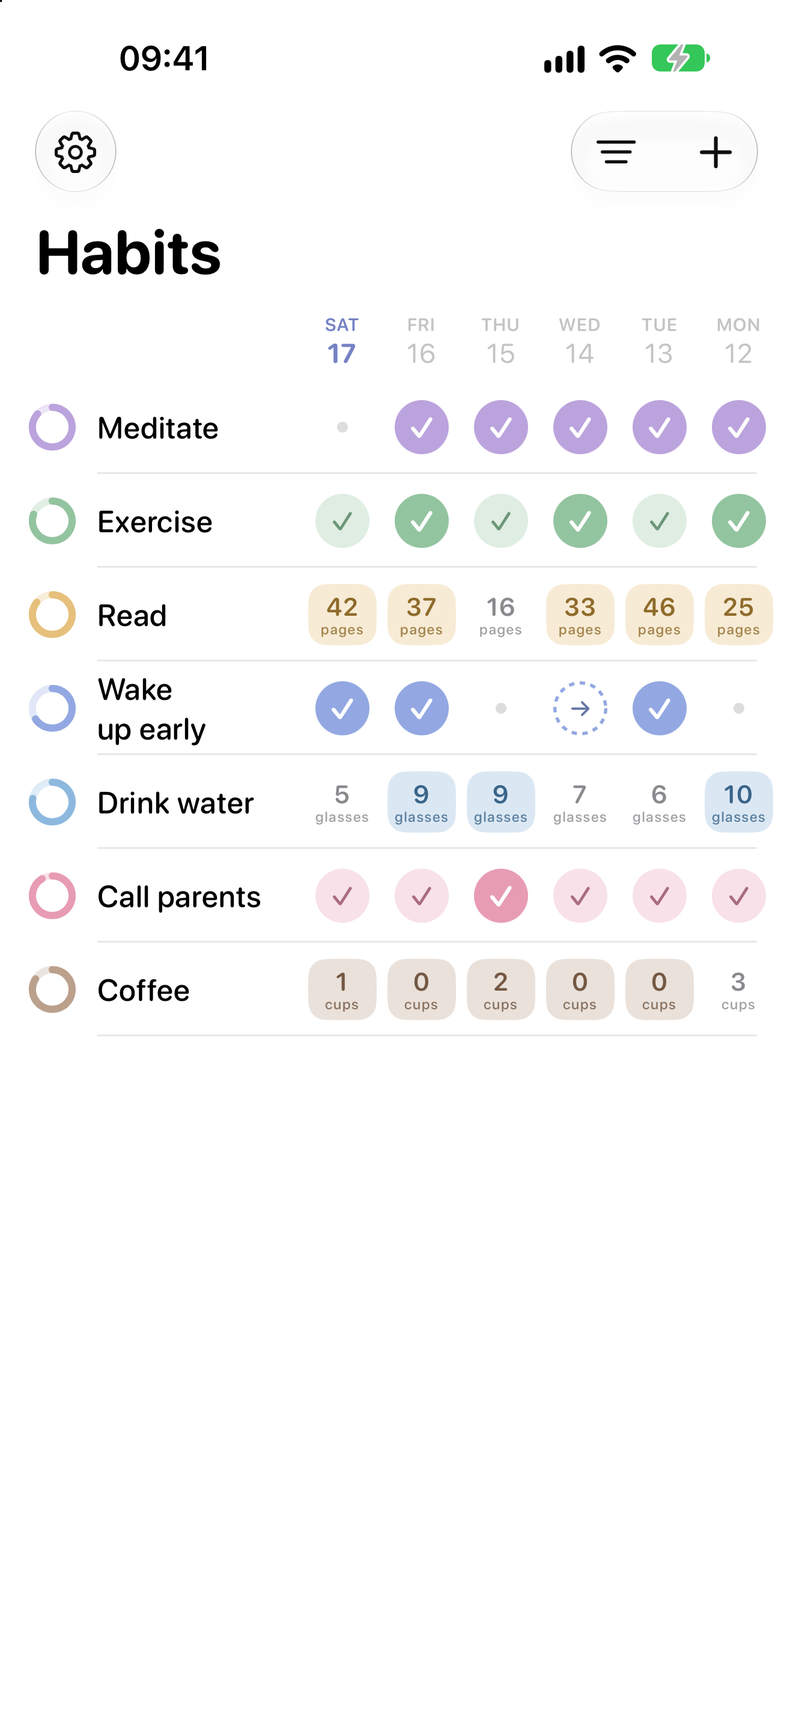
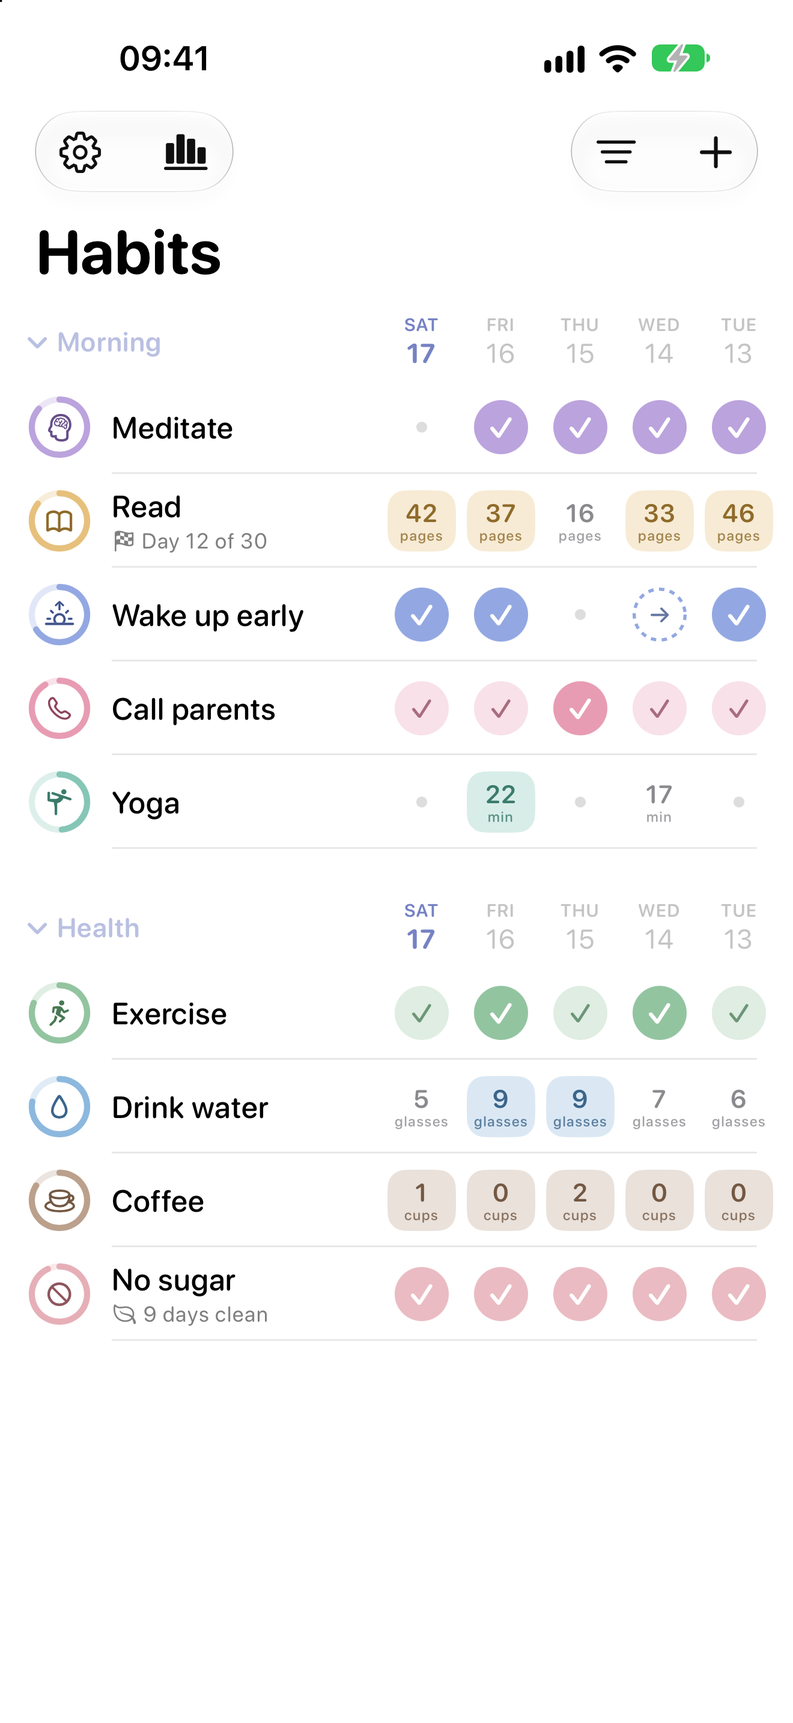
Docs, App Store texts and screenshots for version 2; public privacy page link in the app

diff --git a/Coil/Views/HabitList/HabitListView.swift b/Coil/Views/HabitList/HabitListView.swift
@@ -23,7 +23,7 @@ struct HabitListView: View {
     @State private var today = Day.today()
     @State private var listWidth: CGFloat = 400
     /// Room kept for the habit name; grows with Dynamic Type so names stay readable.
-    @ScaledMetric(relativeTo: .body) private var nameWidth: CGFloat = 120
+    @ScaledMetric(relativeTo: .body) private var nameWidth: CGFloat = 130
     /// How many days the checkmark columns are scrolled back from today.
     @State private var dayOffset = 0
     @State private var editMode: EditMode = .inactive

diff --git a/Coil/Views/Settings/SettingsView.swift b/Coil/Views/Settings/SettingsView.swift
@@ -194,7 +194,7 @@ struct SettingsView: View {
     private var aboutSection: some View {
         Section {
             LabeledContent("Version", value: appVersion)
-            Link(destination: URL(string: "https://github.com/aimnoux/coil/blob/main/docs/privacy-policy.md")!) {
+            Link(destination: URL(string: "https://aimnoux.github.io/coil-app/privacy.html")!) {
                 Label("Privacy Policy", systemImage: "hand.raised")
             }
         } header: {

diff --git a/README.md b/README.md
@@ -7,50 +7,54 @@
 ## Что умеет
 
 **Главный экран**
-- список привычек с отметками за последние дни (количество колонок подстраивается под ширину экрана);
-- свайп по заголовку с датами листает в прошлое, кнопка «Today» возвращает к сегодняшнему дню;
-- кольцо силы привычки у каждой строки;
-- отметка касанием (или долгим нажатием, если включено в настройках): выполнено → пропуск → не выполнено → нет отметки;
-- для измеримых привычек ввод значения с кнопками ±;
-- сортировка (вручную, по названию, цвету, силе, статусу), фильтры «Показать архив» и «Скрыть выполненные»;
-- изменение порядка перетаскиванием, свайпы и контекстное меню: изменить, в архив, удалить;
-- режим выбора: несколько привычек сразу в архив, сменить им цвет или удалить.
+- привычки с отметками за последние дни; свайп по датам листает в прошлое;
+- **группы** («Утро», «Здоровье»…) — сворачиваемые разделы списка;
+- у каждой привычки **иконка** в кольце силы и строка статуса: челлендж, пауза, дни без срыва, идущий таймер;
+- отметка касанием (или долгим нажатием): выполнено → пропуск → не выполнено; встряхните, чтобы отменить;
+- сортировка, фильтры, режим выбора: в архив, сменить цвет, удалить несколько привычек сразу;
+- **отмена** удаления, архивации и других действий плашкой «Отменить».
 
-**Типы привычек и расписания**
-- «Да/нет» и измеримые (единица измерения, цель «не меньше» или «не больше», период: день, неделя или месяц);
-- частота: каждый день, раз в N дней, N раз в неделю, N раз в месяц, своя (N раз за M дней);
-- автоматические отметки: если цель на период уже выполнена, остальные дни периода засчитываются (полупрозрачная галочка, как в Loop).
+**Создание привычки**
+- **146 шаблонов** в 15 темах (здоровье, спорт, питание, сон, осознанность, обучение, продуктивность, финансы,
+  отношения, дом, творчество, забота о себе, «бросить привычку», челленджи) с поиском, на двух языках;
+- типы: «да/нет», измеримая (единицы, цель «не меньше/не больше», день/неделя/месяц), **«бросить»**;
+- частота: каждый день, раз в N дней, N раз в неделю или месяц, своя;
+- **учёт времени**: секундомер или таймер с историей сессий;
+- **челлендж** на 7–365 дней; **несколько напоминаний в день**; связь с **Apple Health**.
 
-**Статистика привычки**
-- обзор: сила привычки, изменение за месяц и год, сколько раз выполнено, текущая серия;
-- прогресс к цели за день, неделю, месяц, квартал и год (для измеримых);
-- график силы привычки и гистограмма истории с группировкой по дням, неделям, месяцам, кварталам и годам;
-- календарь-сетка за всю историю, где каждый день можно изменить нажатием;
-- лучшие серии;
-- частота выполнения по дням недели за последние 12 месяцев;
-- заметки к привычке и **заметки к отдельным дням** (удерживайте день в календаре или пишите при вводе значения).
+**Экран привычки**
+- обзор силы, цель, графики силы и истории, календарь (касание — изменить, удержание — заметка);
+- серии, частота по дням недели, заметки по дням;
+- карточки: **без срыва** (для «бросить»), **челлендж**, **таймер** с историей, **достижения**, **паузы**.
 
-**Сила привычки** — экспоненциальное скользящее среднее, как в Loop: повторения её поднимают, пропуски опускают,
-но несколько пропущенных дней после долгой серии не обнуляют прогресс. Скорость затухания зависит от частоты,
-поэтому еженедельная привычка не слабеет в дни, когда её не нужно делать. Пропуски (skip) силу не меняют.
+**Таймер**: секундомер или обратный отсчёт; каждая сессия сохраняется, её можно поправить (если забыли
+остановить), добавить вручную или удалить; значение дня — сумма сессий; уведомление по окончании, даже если
+приложение закрыто.
 
-**Напоминания** для каждой привычки: время и дни недели. Прямо из уведомления можно отметить привычку
-или попросить напомнить позже (интервал задаётся в настройках).
+**Пауза и режим отпуска**: дни на паузе не снижают силу и не рвут серию, напоминания не приходят. Пауза для одной
+привычки или для всех сразу.
 
-**Данные**
-- экспорт в CSV (список привычек и таблица отметок; для одной привычки — со своего экрана);
-- полная резервная копия в JSON и восстановление из неё;
-- **импорт из Loop Habit Tracker**: в Loop на Android откройте «Настройки» → «Экспорт полной копии»
-  и импортируйте полученный `.db` файл в Coil («Настройки» → «Импорт копии»).
+**Умные напоминания**: несколько в день, не приходят, если привычка уже выполнена или на паузе. Из уведомления
+можно отметить привычку или отложить напоминание.
 
-**Siri и Shortcuts**: «Отметить привычку» и «Статус привычки» доступны в приложении «Команды» и через Siri.
+**Достижения**: серии (3–365 дней), количество выполнений, сила привычки, идеальный месяц, возвращение после
+перерыва, челленджи, общие вехи. Точная дата получения и поздравление в момент получения.
 
-**Платные функции** (нужен Apple Developer Program, $99/год), уже реализованы и включаются флагом:
+**Статистика**: итоги недели и месяца (процент выполнения, сравнение с прошлым периодом, лучшая привычка, лучший
+день недели, учтённое время), общая тепловая карта всех привычек за год, награды.
+
+**Данные**: CSV, полная резервная копия (с группами, паузами, сессиями), **автобэкапы** по расписанию
+(день/неделя/месяц, хранить последние N) в «Файлы» и iCloud Drive, **импорт из Loop Habit Tracker**.
+
+**Siri, «Команды», виджеты, Пункт управления** (виджеты и кнопка — с платным аккаунтом, см. ниже).
+
+**Оформление**: пастельная палитра, SF Pro Rounded, светлая и тёмная темы, русский и английский, крупный шрифт,
+VoiceOver.
+
+**Платные возможности** (нужен Apple Developer Program), уже реализованы и включаются флагами:
 - синхронизация через iCloud — [docs/ICLOUD.md](docs/ICLOUD.md);
-- виджеты для экрана «Домой» и экрана блокировки — [docs/WIDGETS.md](docs/WIDGETS.md).
-
-**Прочее**: светлая и тёмная темы, выбор первого дня недели, сегодняшний день слева или справа,
-русская и английская локализация, VoiceOver.
+- 7 виджетов и кнопка Пункта управления — [docs/WIDGETS.md](docs/WIDGETS.md);
+- Apple Health (может заработать и бесплатно — попробуйте) — [docs/HEALTH.md](docs/HEALTH.md).
 
 ## Разработка
 
@@ -67,15 +71,16 @@ open Coil.xcodeproj
 Варианты сборки:
 
 ```bash
-xcodegen                                      # бесплатный Apple ID: без iCloud и виджетов
-COIL_WIDGETS=true xcodegen                    # + виджеты (нужен платный аккаунт)
-COIL_ICLOUD=true COIL_WIDGETS=true xcodegen   # всё, для App Store
+xcodegen                                                    # бесплатный Apple ID
+COIL_HEALTH=true xcodegen                                   # + Apple Health
+COIL_ICLOUD=true COIL_WIDGETS=true COIL_HEALTH=true xcodegen # всё, для App Store
 ```
 
-Тесты:
+Тесты (юнит-тесты и UI-тесты; на GitHub они запускаются автоматически, см. `.github/workflows/ci.yml`):
 
 ```bash
-xcodebuild -scheme Coil -destination 'platform=iOS Simulator,name=iPhone 18 Pro' -derivedDataPath build test
+xcodebuild -scheme Coil -destination 'platform=iOS Simulator,name=iPhone 18 Pro' -derivedDataPath build test -only-testing:CoilTests
+xcodebuild -scheme Coil -destination 'platform=iOS Simulator,name=iPhone 18 Pro' -derivedDataPath build test -only-testing:CoilUITests
 ```
 
 Аргументы запуска для отладки:
@@ -97,11 +102,13 @@ Coil/
   Domain/       чистая логика: дни, частота, сила привычки, серии, история (покрыта тестами)
   Model/        SwiftData-модели (совместимы с CloudKit), хранилище
   Intents/      App Intents: общие для приложения и виджетов
-  Services/     напоминания, CSV, резервные копии, импорт из Loop
-  Support/      настройки, форматирование, демо-данные
+  Services/     напоминания, таймер, Health, CSV, бэкапы, автобэкапы, импорт из Loop
+  Support/      настройки, шаблоны, каталог иконок, отмена действий, демо-данные
   Views/        экраны SwiftUI
-Widgets/        расширение с виджетами (включается флагом)
-CoilTests/      тесты (Swift Testing)
+Widgets/        расширение с виджетами и кнопкой Пункта управления (включается флагом)
+CoilTests/      юнит-тесты (Swift Testing), включая тесты производительности
+CoilUITests/    UI-тесты основных сценариев
+site/           сайт: политика конфиденциальности, поддержка (публикуется scripts/publish-site.sh)
 docs/           инструкции и материалы для App Store
 scripts/        иконка и локализация
 ```

diff --git a/CLAUDE.md b/CLAUDE.md
@@ -17,8 +17,10 @@ iOS-трекер привычек. Цель v1 — функционально п
   - никаких `@Attribute(.unique)`;
   - все связи опциональные, без delete rule `.deny`;
   - после релиза поля не переименовывать и не удалять.
-- Логика (сила привычки, серии, частота) — в `Coil/Domain`, чистые типы без SwiftData, с тестами.
-  Вьюхи получают `HabitStats` через `habit.stats(today:)`.
+- Логика (сила привычки, серии, частота, паузы, «бросить», челленджи, достижения, итоги) — в `Coil/Domain`,
+  чистые типы без SwiftData, с тестами. Вьюхи получают `HabitStats` через `habit.stats(today:)`.
+- Статистика кэшируется (`HabitCache`) по `Habit.revision`. Любой код, который меняет отметки, паузы или
+  сессии напрямую (не через `setRecord`/`setNote`), обязан вызвать `habit.touch()`.
 - Дни хранятся как `Day` (индекс дня от 2001-01-01), не как `Date`, чтобы не зависеть от часового пояса.
 - В проекте `SWIFT_DEFAULT_ACTOR_ISOLATION = MainActor`. Типы, которые нужны вне главного актора
   (domain, Transferable, Codable для бэкапов, данные виджетов), помечены `nonisolated`.
@@ -31,8 +33,12 @@ iOS-трекер привычек. Цель v1 — функционально п
   После добавления/удаления файлов или правки `project.yml` — запустить `xcodegen`.
 - Платные возможности подключаются include-файлами по переменным окружения:
   - `widgets.yml` (`COIL_WIDGETS=true`) — расширение `CoilWidgets` + App Group;
-  - `icloud.yml` (`COIL_ICLOUD=true`) — CloudKit, флаг компиляции `ICLOUD`.
-  По умолчанию оба выключены, чтобы приложение подписывалось бесплатным Apple ID.
+  - `icloud.yml` (`COIL_ICLOUD=true`) — CloudKit и iCloud Drive, флаг `-DICLOUD` через `OTHER_SWIFT_FLAGS`;
+  - `health.yml` (`COIL_HEALTH=true`) — HealthKit, флаг `HEALTHKIT` через `SWIFT_ACTIVE_COMPILATION_CONDITIONS`
+    (разные ключи, чтобы include-файлы не перезаписывали друг друга).
+  По умолчанию все выключены, чтобы приложение подписывалось бесплатным Apple ID.
+- Виджет компилирует папки `Coil/Domain`, `Coil/Model`, `Coil/Support` (кроме `UndoCenter.swift`) и часть
+  `Services` — новые файлы в этих папках не должны зависеть от экранов (`Views`).
 - Bundle ID: `com.maxouni.coil`. App Group: `group.com.maxouni.coil`. iCloud: `iCloud.com.maxouni.coil`.
 - Минимальная iOS: 18.0. Только iPhone, портретная ориентация.
 - Тесты — Swift Testing, таргет `CoilTests`. В тестах держать ссылку на `ModelContainer`,
